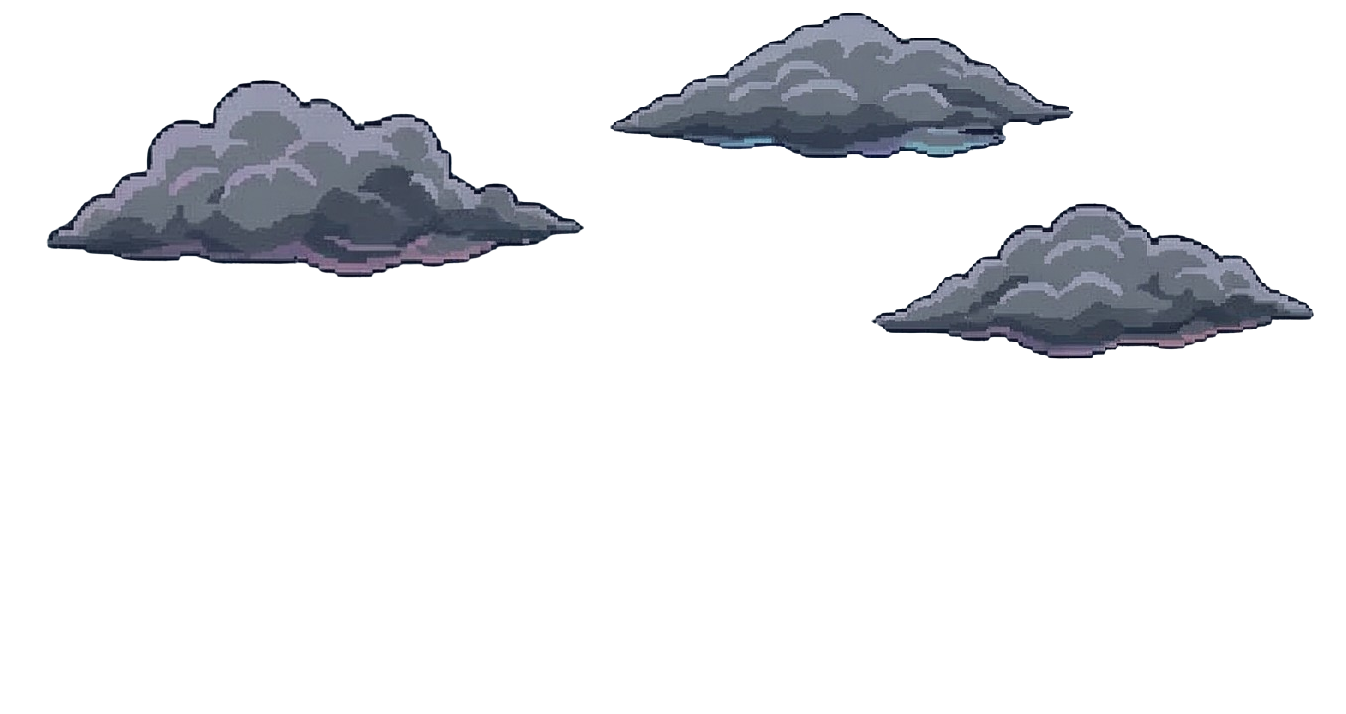
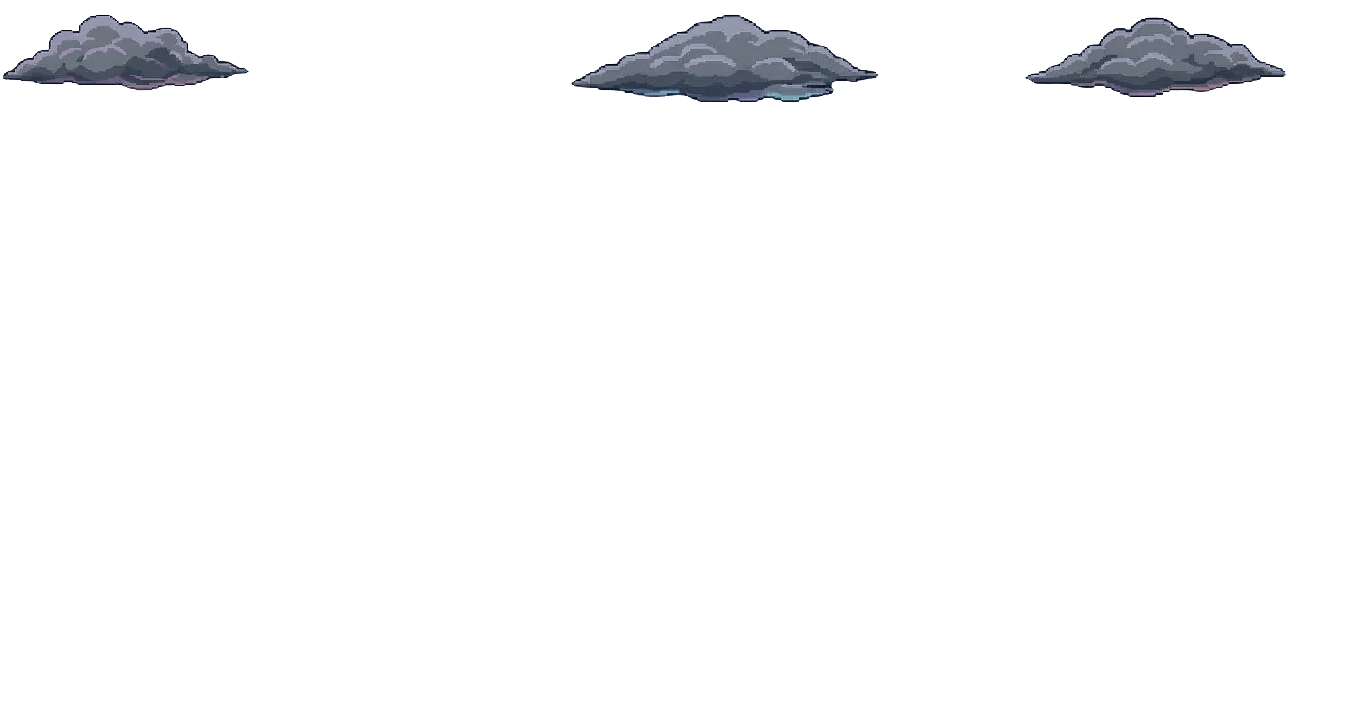
added background image

Changed region(s): [[0.0, 0.0, 0.4368, 0.4006], [0.4056, 0.0, 0.9673, 0.2465], [0.6553, 0.2773, 0.9985, 0.5238]]

diff --git a/models/world.class.js b/models/world.class.js
@@ -7,6 +7,10 @@ class World {
     clouds = [
         new Cloud()
     ];
+    backgroundObjects = [
+        new BackgroundObject('img/background/background1.png', 0),
+        new BackgroundObject2('img/background/background-city.png', 0, 0)
+    ];
     canvas;
     ctx;
 
@@ -21,14 +25,10 @@ class World {
     draw(){
         this.ctx.clearRect(0, 0, this.canvas.width, this.canvas.height);
 
-        this.ctx.drawImage(this.character.img, this.character.x, this.character.y, this.character.width, this.character.height);
-        this.enemies.forEach(enemy => {
-            this.ctx.drawImage(enemy.img, enemy.x, enemy.y, enemy.width, enemy.height);    
-        });
-
-        this.clouds.forEach(cloud => {
-            this.ctx.drawImage(cloud.img, cloud.x, cloud.y, cloud.width, cloud.height);    
-        });
+        this.addObjectsToMap(this.backgroundObjects);
+        this.addToMap(this.character);
+        this.addObjectsToMap(this.clouds);
+        this.addObjectsToMap(this.enemies);
 
         
         // Draw() wird immer wieder aufgerufen
@@ -36,5 +36,15 @@ class World {
         requestAnimationFrame(function(){
             self.draw();
         });
+    }
+
+    addObjectsToMap(objects){
+        objects.forEach(o => {
+            this.addToMap(o);
+        });
+    }
+
+    addToMap(mo){
+        this.ctx.drawImage(mo.img, mo.x, mo.y, mo.width, mo.height);
     }
 }

diff --git a/models/background-object.class.js b/models/background-object.class.js
@@ -1,0 +1,19 @@
+class BackgroundObject extends MoveableObject {
+    width = 720;
+    height = 400;
+    constructor(imagePath, x){
+        super().loadImage(imagePath);
+        this.x = x;
+        this.y = 480 - this.height;
+    }
+}
+
+class BackgroundObject2 extends MoveableObject {
+    width = 720;
+    height = 80;
+    constructor(imagePath, x, y){
+        super().loadImage(imagePath);
+        this.x = x;
+        this.y = y;
+    }
+}

diff --git a/index.html b/index.html
@@ -9,6 +9,7 @@
     <script src="/models/character.class.js"></script>
     <script src="/models/bully.class.js"></script>
     <script src="/models/cloud.class.js"></script>
+    <script src="/models/background-object.class.js"></script>
     <script src="/models/world.class.js"></script>
     <script src="/scripts/game.js"></script>
 </head>

diff --git a/models/cloud.class.js b/models/cloud.class.js
@@ -1,5 +1,5 @@
 class Cloud extends MoveableObject{
-    y = 50;
+    y = 10;
     width = 500;
     height = 250;
 
